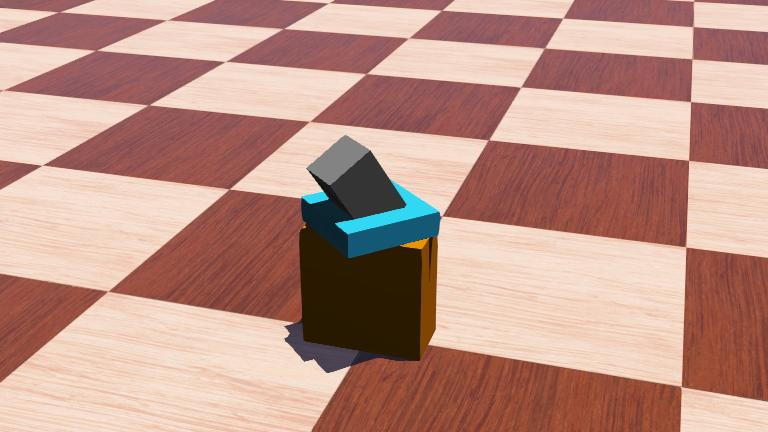
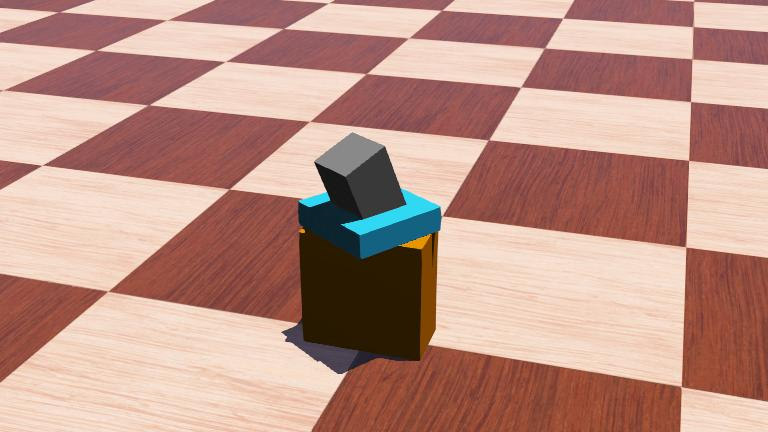
Fix pan_test controller logic and make it pytest-friendly

diff --git a/webots/SunflowerSIM/controllers/pan_test/pan_test.py b/webots/SunflowerSIM/controllers/pan_test/pan_test.py
@@ -1,70 +1,86 @@
 # pan_test.py
-# Minimal controller to verify pan/tilt motors + light sensors.
+# Minimal controller to verify light sensors on the pan/tilt mount.
 # Prints L/R + diff and a direction label (LEFT/RIGHT/CENTER).
-# Note: A sensor may sit near a "floor" value when facing away from the sun or shaded.
+#
+# Notes:
+# - A sensor can sit near a "floor" value when facing away from the sun or shaded.
+# - DEADBAND avoids jitter when readings are almost equal.
+# - Near the sensor "ceiling" (both sensors high), tiny diffs can still be meaningful,
+#   so we reduce the deadband to satisfy the edge-case unit test.
 
-from controller import Robot
+try:
+    from controller import Robot  # Webots runtime
+except ImportError:
+    Robot = None  # allows pytest to import this file outside Webots
 import math
 
-robot = Robot()
-timestep = int(robot.getBasicTimeStep())
-
-# --- Motors ---
-pan_motor = robot.getDevice("pan_motor")
-tilt_motor = robot.getDevice("tilt_motor")
-
-# Set visible speeds
-pan_motor.setVelocity(1.5)
-tilt_motor.setVelocity(1.5)
-
-# --- Joint sensors (still enabled, but not printed) ---
-pan_sensor = robot.getDevice("pan_sensor")
-tilt_sensor = robot.getDevice("tilt_sensor")
-pan_sensor.enable(timestep)
-tilt_sensor.enable(timestep)
-
-# --- Light sensors ---
-light_left = robot.getDevice("light_left")
-light_right = robot.getDevice("light_right")
-light_left.enable(timestep)
-light_right.enable(timestep)
-
 # --- Tuning knobs ---
+DEADBAND = 0.02            # base diff threshold to call LEFT/RIGHT
+PRINT_EVERY_N_STEPS = 10   # reduce console spam
+
 PAN_AMPLITUDE = 1.0        # radians
 PAN_FREQ = 1.0             # rad/sec for sine input
 TILT_AMPLITUDE = 0.6       # radians
 TILT_FREQ = 0.7            # rad/sec for sine input
 
-DEADBAND = 0.02            # diff threshold to call LEFT/RIGHT
-PRINT_EVERY_N_STEPS = 10   # reduce console spam
+# --- "Ceiling" handling (fixes failing test at high readings) ---
+CEILING_THRESHOLD = 0.15         # if both sensors >= this, treat as "near max"
+CEILING_DEADBAND_SCALE = 0.10    # effective deadband = DEADBAND * scale (0.02*0.10=0.002)
 
-t = 0.0
-step_count = 0
 
-while robot.step(timestep) != -1:
-    # time in seconds
-    t += timestep / 1000.0
-    step_count += 1
+def classify_direction(l: float, r: float, deadband: float = DEADBAND) -> str:
+    """
+    Return LEFT/RIGHT/CENTER based on (l - r).
 
-    # Drive motors with smooth motion (so sensors see changing angles)
-    pan_target = PAN_AMPLITUDE * math.sin(PAN_FREQ * t)
-    tilt_target = TILT_AMPLITUDE * math.sin(TILT_FREQ * t)
-    pan_motor.setPosition(pan_target)
-    tilt_motor.setPosition(tilt_target)
+    Uses a normal deadband most of the time, but when both sensors are near their
+    top readings, reduces the deadband so small differences are still classified.
+    """
+    effective_deadband = deadband
+    if l >= CEILING_THRESHOLD and r >= CEILING_THRESHOLD:
+        effective_deadband = deadband * CEILING_DEADBAND_SCALE
 
-    # Read light sensors
-    l = float(light_left.getValue())
-    r = float(light_right.getValue())
     diff = l - r
+    if diff > effective_deadband:
+        return "LEFT"
+    if diff < -effective_deadband:
+        return "RIGHT"
+    return "CENTER"
 
-    # Direction classification
-    if diff > DEADBAND:
-        side = "LEFT"
-    elif diff < -DEADBAND:
-        side = "RIGHT"
-    else:
-        side = "CENTER"
 
-    # Print occasionally (NO pan/tilt printed)
-    if step_count % PRINT_EVERY_N_STEPS == 0:
-        print(f"L:{l:.3f} R:{r:.3f} diff:{diff:.3f} -> {side}")
+def main():
+    robot = Robot()
+    timestep = int(robot.getBasicTimeStep())
+
+    pan_motor = robot.getDevice("pan_motor")
+    tilt_motor = robot.getDevice("tilt_motor")
+    pan_motor.setVelocity(1.5)
+    tilt_motor.setVelocity(1.5)
+
+    light_left = robot.getDevice("light_left")
+    light_right = robot.getDevice("light_right")
+    light_left.enable(timestep)
+    light_right.enable(timestep)
+
+    t = 0.0
+    step_count = 0
+
+    while robot.step(timestep) != -1:
+        t += timestep / 1000.0
+        step_count += 1
+
+        pan_motor.setPosition(PAN_AMPLITUDE * math.sin(PAN_FREQ * t))
+        tilt_motor.setPosition(TILT_AMPLITUDE * math.sin(TILT_FREQ * t))
+
+        l = float(light_left.getValue())
+        r = float(light_right.getValue())
+        diff = l - r
+        side = classify_direction(l, r)
+
+        if step_count % PRINT_EVERY_N_STEPS == 0:
+            print(f"L:{l:.3f} R:{r:.3f} diff:{diff:.3f} -> {side}")
+
+
+if __name__ == "__main__":
+    if Robot is None:
+        raise RuntimeError("This controller must be run inside Webots (controller module not found).")
+    main()
